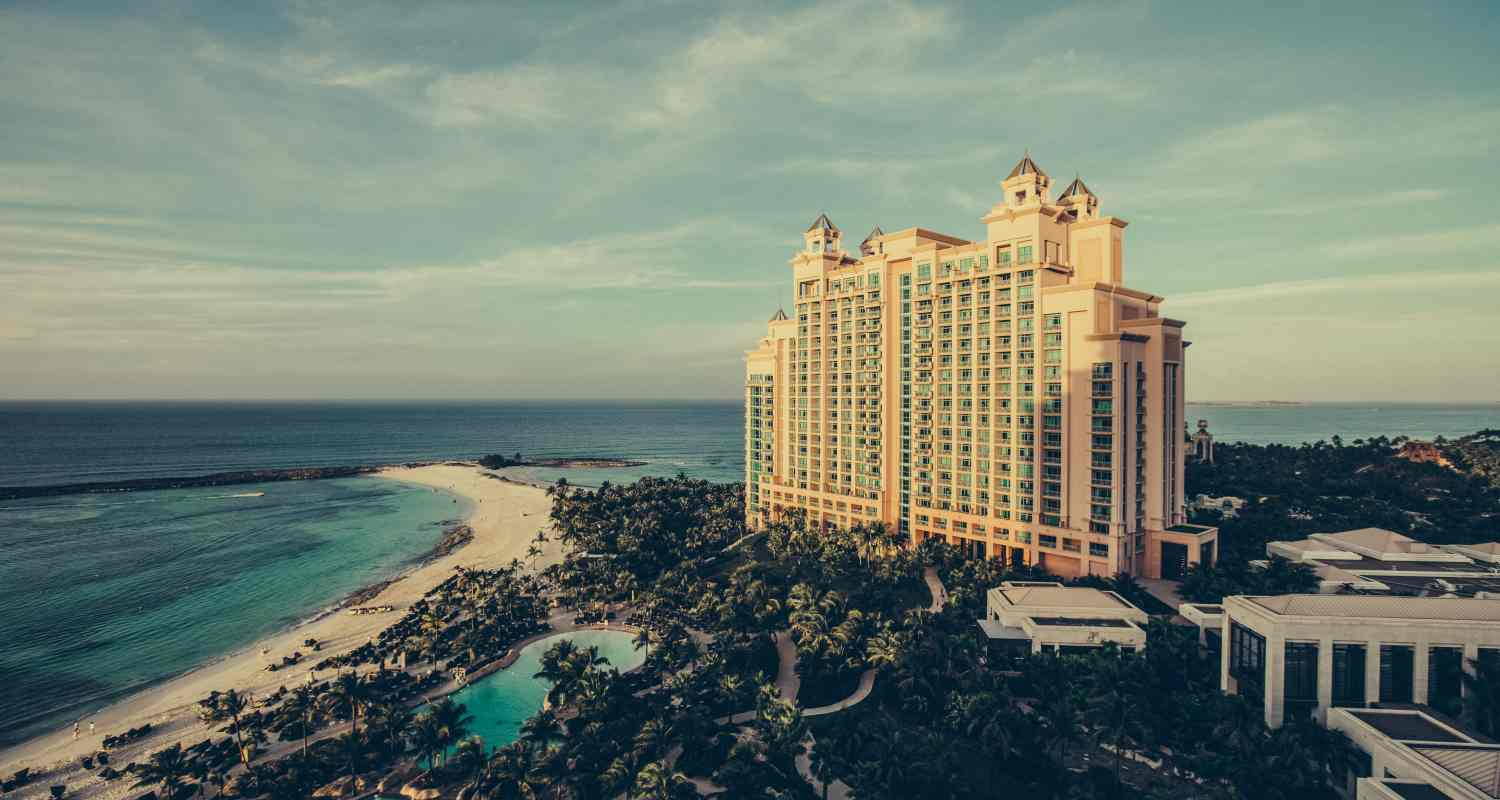
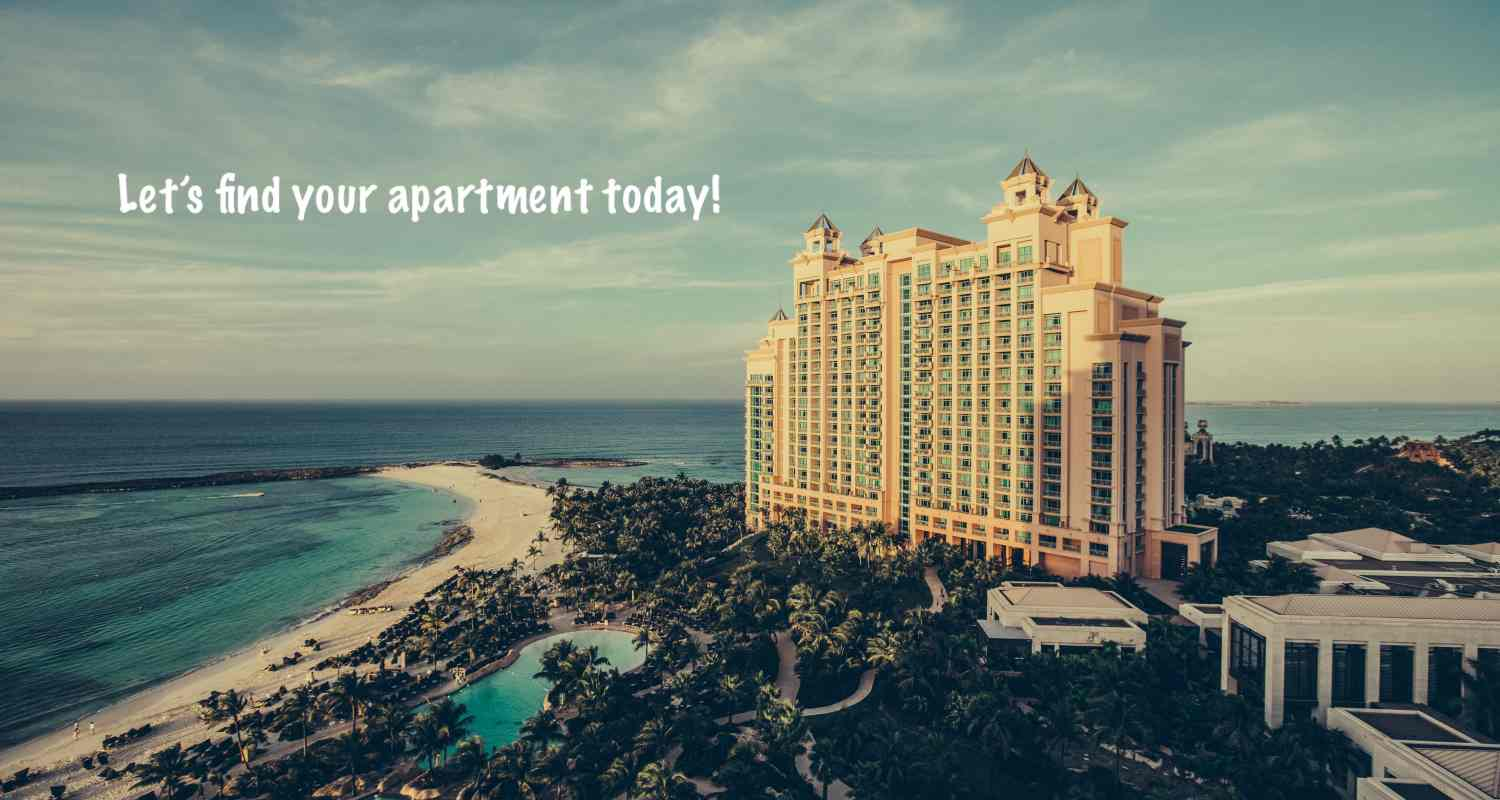
Change in home page add project style header

Changed region(s): [[0.0613, 0.2188, 0.4907, 0.2812]]

diff --git a/src/css/styleindex.css b/src/css/styleindex.css
@@ -162,7 +162,6 @@ ul {
   background-color: black;
   color:white;
   padding: 1px;
-  position: absolute;
   bottom: 0;
 
   }

diff --git a/src/home.php b/src/home.php
@@ -10,31 +10,24 @@
 <link rel="stylesheet" href="https://www.w3schools.com/w3css/4/w3.css">
 <link rel="stylesheet" href="https://fonts.googleapis.com/css?family=Raleway">
 <link rel="stylesheet" href="https://cdnjs.cloudflare.com/ajax/libs/font-awesome/4.7.0/css/font-awesome.min.css">
+<link type="text/css" rel="stylesheet" href="css/styleindex.css" />
 <style>
 body,h1,h2,h3,h4,h5,h6 {font-family: "Raleway", Arial, Helvetica, sans-serif}
 </style>
 <body class="w3-light-grey">
 
 <!-- Navigation Bar -->
-<div class="w3-bar w3-white w3-large">
-  <a href="#" class="w3-bar-item w3-button w3-red w3-mobile"><i class="fa fa-bed w3-margin-right"></i>My Appartment</a>
+<header id="top">
+	<img  src="images/logo.png" alt="logo" style="margin-top:10px;"/>
+    <h1 >Delta <span style="color:#54514d">Management<span></h1>
+    <p> Hi Username <a href="login.php">   Signup</a></p>
 
-  <a href="#" class="w3-bar-item w3-button w3-right w3-light-grey w3-mobile">Signin</a>
-  <a href="#" class="w3-bar-item w3-button w3-right w3-light-grey w3-mobile">Signup</a>
-</div>
-<!-- Header -->
-<header class="w3-display-container w3-content" style="max-width:1500px;">
-  <img class="w3-image" src="images/hotel.jpg" alt="The Hotel" style="min-width:1000px" width="1500" height="800">
-  <div class="w3-display-left w3-padding w3-col l6 m8">
-    <div class="w3-container w3-red">
-      <h2><i class="fa fa-bed w3-margin-right"></i>Let's Find Your Appartment today!</h2>
-    </div>
 </header>
 
-<!-- Page content -->
-<div class="w3-content" style="max-width:1532px;">
-
   <div class="w3-bar w3-white w3-large">
+  <div>
+  <img class="w3-image" src="images/hotel.jpg" alt="The Hotel" style="min-width:1000px" width="1500" height="800">
+  </div>
   <a href="#rooms" class="w3-bar-item w3-button w3-mobile">5 1/2</a>
   <a href="#about" class="w3-bar-item w3-button w3-mobile">4 1/2</a>
   <a href="#contact" class="w3-bar-item w3-button w3-mobile">3 1/2</a>
@@ -236,6 +229,6 @@ body,h1,h2,h3,h4,h5,h6 {font-family: "Raleway", Arial, Helvetica, sans-serif}
 </div>
 
 
-
-</body>
-</html>
+<?php 
+    include_once("includes/footer.php");
+?>
